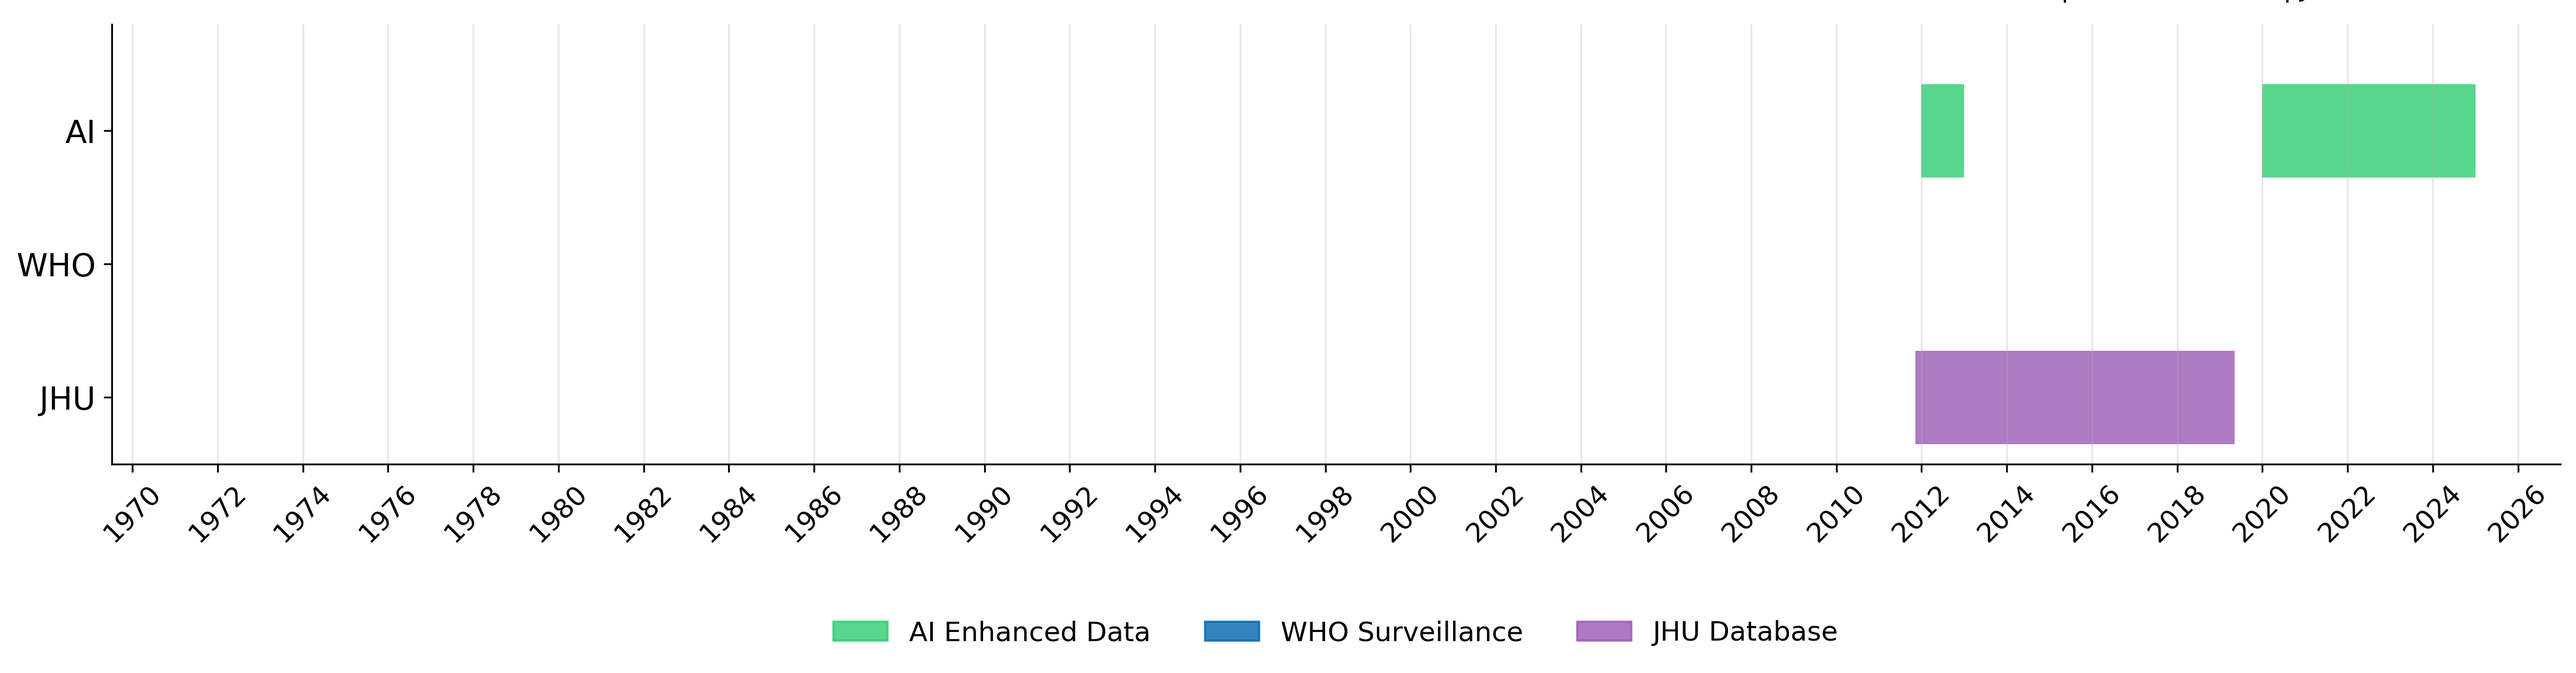
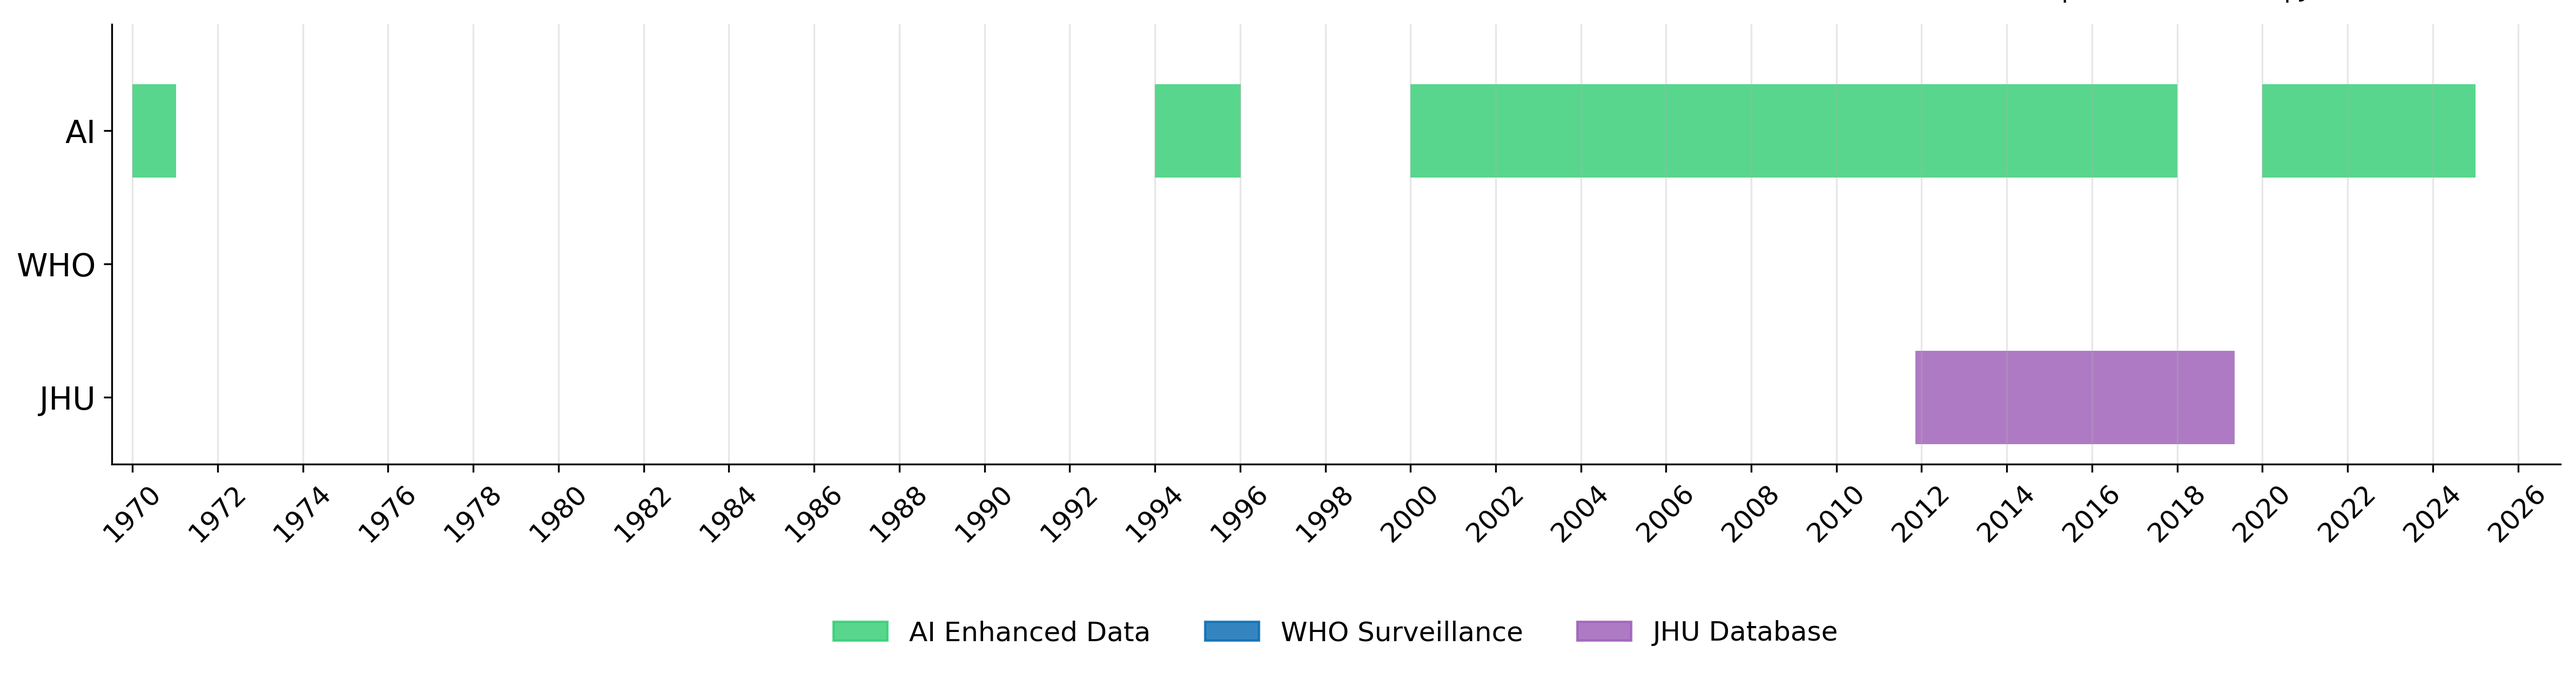
Auto-update dashboard data - 2025-07-24 19:39:54 - Generated with Claude Code

Changed region(s): [[0.5311, 0.1219, 0.8436, 0.2743], [0.4374, 0.1219, 0.4999, 0.2743], [0.0312, 0.1219, 0.0937, 0.2743]]

diff --git a/dashboard/dashboard.html b/dashboard/dashboard.html
@@ -2052,29 +2052,29 @@
                 "country": "Sierra Leone",
                 "iso": "SLE",
                 "status": "PENDING",
-                "datetime": "2025-07-24 18:34:59",
-                "sources": 5,
-                "observations": 5,
-                "date_range": "2012-2024",
-                "priority": "HIGH",
+                "datetime": "2025-07-24 19:39:13",
+                "sources": 19,
+                "observations": 25,
+                "date_range": "1970-2024",
+                "priority": "MEDIUM",
                 "execution_time": 0,
                 "queries": 0,
                 "yield_pct": 0.0,
-                "notes": "Agent 1 completed; 5 data observations | Manual: No activity detected"
+                "notes": "Agent 2 completed; 25 data observations | Manual: No activity detected"
         },
         {
                 "country": "Somalia",
                 "iso": "SOM",
                 "status": "PENDING",
-                "datetime": "2025-07-24 18:35:21",
-                "sources": 0,
-                "observations": 0,
-                "date_range": "",
-                "priority": "",
+                "datetime": "2025-07-24 19:37:08",
+                "sources": 23,
+                "observations": 24,
+                "date_range": "2000-2024",
+                "priority": "MEDIUM",
                 "execution_time": 0,
                 "queries": 0,
                 "yield_pct": 0.0,
-                "notes": "Agent 1 completed | Manual: No activity detected"
+                "notes": "Agent 3 completed; 24 data observations | Manual: No activity detected"
         },
         {
                 "country": "South Sudan",
@@ -3324,8 +3324,8 @@ Niger,NER,1293,0,399
 Nigeria,NGA,742,121,446
 Rwanda,RWA,498,0,0
 Senegal,SEN,1484,0,417
-Sierra Leone,SLE,313,0,387
-Somalia,SOM,0,125,137
+Sierra Leone,SLE,1358,0,387
+Somalia,SOM,419,125,137
 South Sudan,SSD,0,51,348
 Eswatini,SWZ,0,0,0
 Chad,TCD,0,0,430
